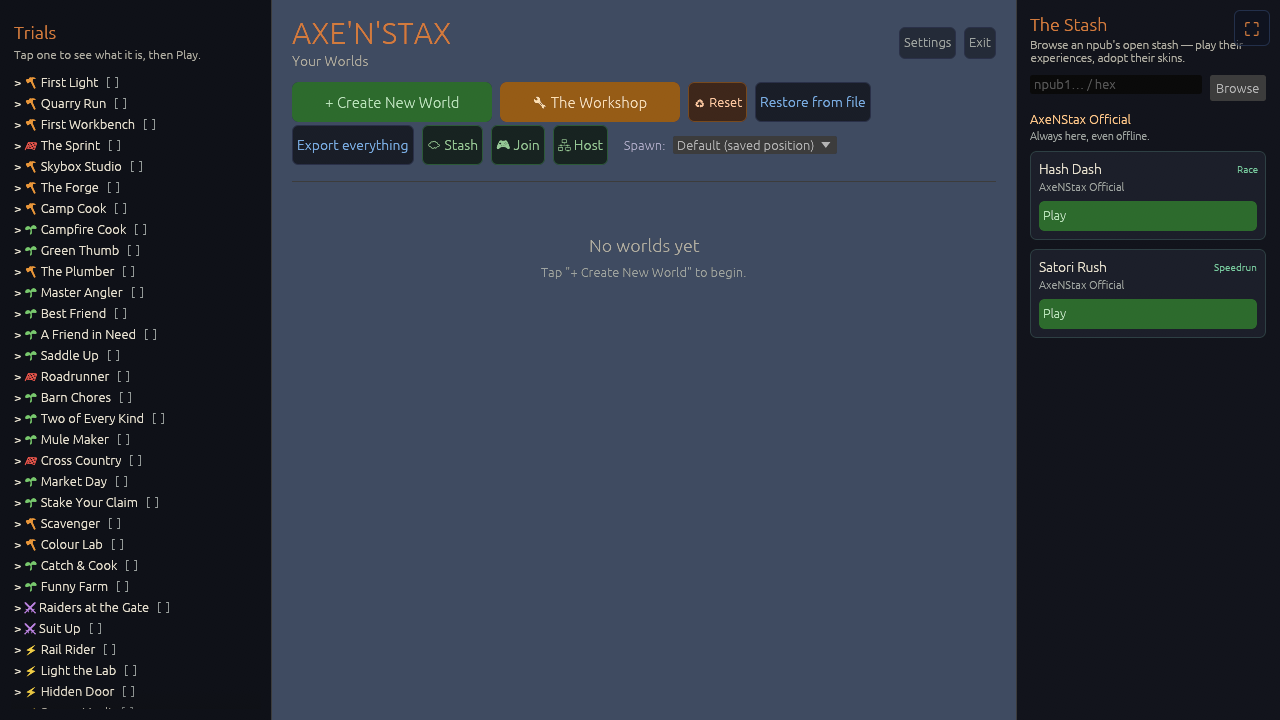
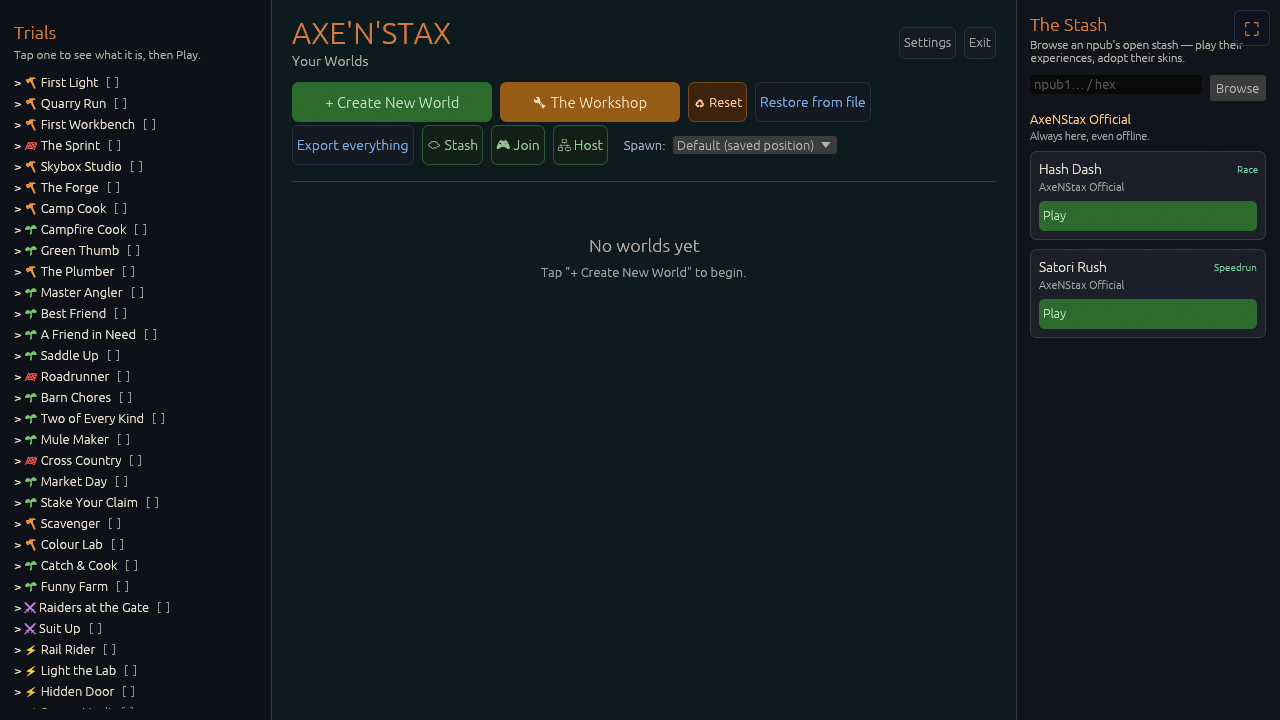
fix(brand): Deep Frontier backdrop behind menu and loading screen

diff --git a/game/engine/src/renderer.rs b/game/engine/src/renderer.rs
@@ -4137,7 +4137,7 @@ impl Renderer {
                     view: &view,
                     resolve_target: None,
                     ops: wgpu::Operations {
-                        load: wgpu::LoadOp::Clear(wgpu::Color { r: 0.05, g: 0.07, b: 0.12, a: 1.0 }),
+                        load: wgpu::LoadOp::Clear(menu_backdrop_color(self.format)),
                         store: wgpu::StoreOp::Store,
                     },
                 })],
@@ -4239,7 +4239,7 @@ impl Renderer {
                     view: &view,
                     resolve_target: None,
                     ops: wgpu::Operations {
-                        load: wgpu::LoadOp::Clear(wgpu::Color { r: 0.05, g: 0.07, b: 0.12, a: 1.0 }),
+                        load: wgpu::LoadOp::Clear(menu_backdrop_color(self.format)),
                         store: wgpu::StoreOp::Store,
                     },
                 })],
@@ -4266,6 +4266,27 @@ impl Renderer {
         output.present();
         Ok(())
     }
+}
+
+/// Menu / loading-screen clear colour: Copperline Deep Frontier `#0D1B1E`.
+///
+/// wgpu clear values are *linear*; on an sRGB render view the hardware encodes
+/// them on write, so the brand's sRGB bytes must be decoded first. (The old
+/// hand-written `0.05/0.07/0.12` encoded to the slate `#424c63` that showed
+/// through the transparent menu panel and the loading screen.)
+fn menu_backdrop_color(format: wgpu::TextureFormat) -> wgpu::Color {
+    let c = crate::brand::DEEP_FRONTIER;
+    let ch = |v: u8| -> f64 {
+        let s = f64::from(v) / 255.0;
+        if !format.is_srgb() {
+            s
+        } else if s <= 0.04045 {
+            s / 12.92
+        } else {
+            ((s + 0.055) / 1.055).powf(2.4)
+        }
+    };
+    wgpu::Color { r: ch(c.r()), g: ch(c.g()), b: ch(c.b()), a: 1.0 }
 }
 
 /// Render all world passes (chunks, water, entities, wireframe, crosshair) for a single viewport.
@@ -6228,6 +6249,21 @@ mod shader_tests {
 #[cfg(test)]
 mod tests {
     use super::*;
+
+    #[test]
+    fn menu_backdrop_encodes_to_deep_frontier() {
+        // sRGB view: the hardware re-encodes the linear clear value, so it must
+        // land back on the brand bytes (13, 27, 30), not the old slate #424c63.
+        let c = menu_backdrop_color(wgpu::TextureFormat::Bgra8UnormSrgb);
+        let enc = |l: f64| -> u8 {
+            let s = if l <= 0.0031308 { l * 12.92 } else { 1.055 * l.powf(1.0 / 2.4) - 0.055 };
+            (s * 255.0).round() as u8
+        };
+        assert_eq!((enc(c.r), enc(c.g), enc(c.b)), (13, 27, 30));
+        // Non-sRGB view: bytes are written as-is.
+        let c = menu_backdrop_color(wgpu::TextureFormat::Bgra8Unorm);
+        assert_eq!(((c.r * 255.0).round() as u8, (c.g * 255.0).round() as u8, (c.b * 255.0).round() as u8), (13, 27, 30));
+    }
 
     #[test]
     fn thumb_cache_invalidates_on_key_change() {

diff --git a/game/engine/src/loading_screen.rs b/game/engine/src/loading_screen.rs
@@ -159,8 +159,7 @@ impl LoadingState {
 // ---------------------------------------------------------------------------
 // egui rendering — the in-engine world-load screen: the Copperline mark
 // (`brand::show_mark`, same artwork as the HTML boot screen) + rotating card
-// beneath. Painter-driven; structure mirrors `splash_ui::draw_splash` (bg Area
-// behind a transparent CentralPanel).
+// beneath. Painter-driven; the CentralPanel frame paints the Deep Frontier backdrop.
 // ---------------------------------------------------------------------------
 
 /// Deep Frontier `#0D1B1E` — matches the HTML boot screen, so no colour flash.
@@ -174,20 +173,15 @@ pub fn draw_loading_screen(ctx: &egui::Context, state: &LoadingState, progress: 
     let t = ctx.input(|i| i.time) as f32;
     let bob = (t * 1.8).sin() * 6.0;
 
-    // Dark backdrop, behind the content panel (default order, non-interactable).
-    egui::Area::new(egui::Id::new("loading_screen_bg"))
-        .anchor(egui::Align2::LEFT_TOP, egui::vec2(0.0, 0.0))
-        .interactable(false)
-        .show(ctx, |ui| {
-            ui.painter().rect_filled(ui.max_rect(), 0.0, BG);
-        });
-
     // `.show(ctx, ..)` is deprecated in favour of `.show_inside(ui, ..)`, but this
     // is a genuine top-level panel (no enclosing Ui) — egui 0.34 has no
     // non-deprecated top-level entry point for CentralPanel.
     #[allow(deprecated)]
     egui::CentralPanel::default()
-        .frame(egui::Frame::new().fill(egui::Color32::TRANSPARENT))
+        // The panel itself paints the Deep Frontier backdrop. (A separate bg
+        // `Area` here sized to its empty content — a zero rect — so it painted
+        // nothing, and the renderer clear colour showed through instead.)
+        .frame(egui::Frame::new().fill(BG))
         .show(ctx, |ui| {
             let available = ui.available_size();
             ui.vertical_centered(|ui| {
